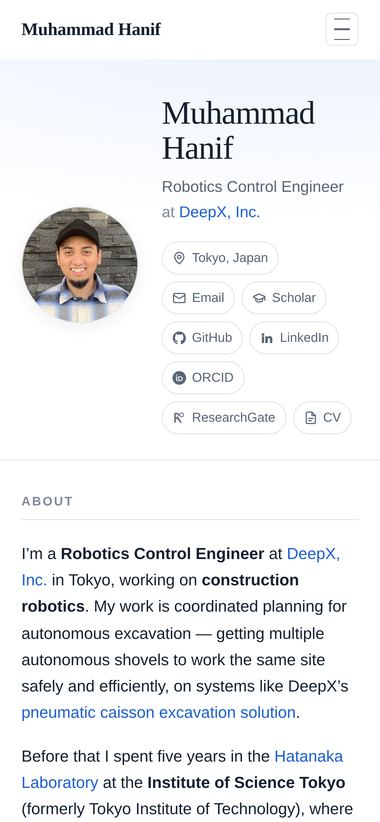
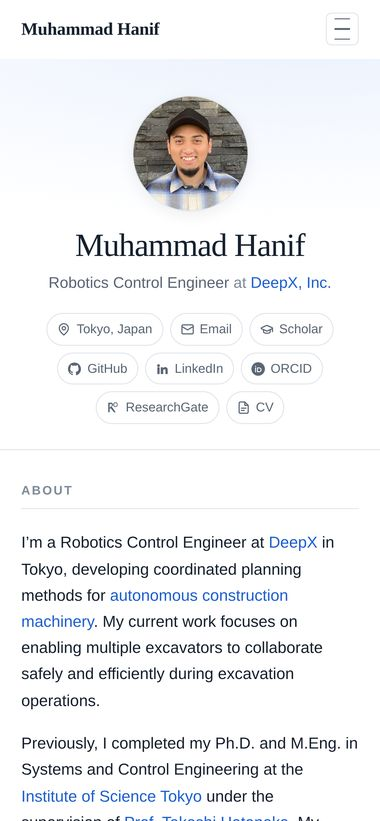
Stack the hero on narrow screens
On phones the hero kept its two-column row, so the photo sat floating in a
narrow left column while the name wrapped across two lines and the social
chips were squeezed into the remaining strip.

Below 680px it now stacks and centres: photo on top, then name, tagline and
links beneath it. The photo is fixed at 136px there rather than following the
viewport-width clamp, and the name scales down so it stays on one line at
360px. Above 680px the side-by-side layout is unchanged.

Verified stacked and centred at 360, 393 and 680px, and still side-by-side at
768px and above.

diff --git a/assets/css/main.scss b/assets/css/main.scss
@@ -284,6 +284,20 @@ h1, h2, h3, h4 { margin: 0; line-height: 1.25; font-weight: 600; }
   gap: clamp(24px, 5vw, 52px);
 }
 
+/* Too narrow for two columns: stack, with the photo centred above the name. */
+@media (max-width: 680px) {
+  .hero-inner {
+    flex-direction: column;
+    align-items: center;
+    text-align: center;
+    gap: 18px;
+  }
+  .hero-photo img { width: 136px; height: 136px; }
+  .hero-name { font-size: clamp(1.85rem, 9vw, 2.4rem); }
+  .hero-tagline { margin-bottom: 18px; }
+  .social-links { justify-content: center; }
+}
+
 .hero-photo { flex: 0 0 auto; }
 .hero-photo img {
   width: clamp(120px, 20vw, 168px);
